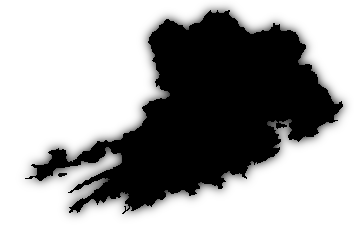
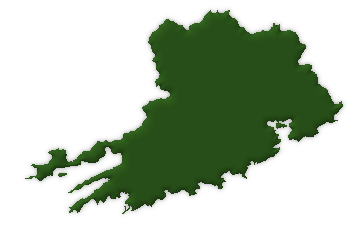
improving county graphics assets

diff --git a/src/data/coordinates.js b/src/data/coordinates.js
@@ -1,0 +1,234 @@
+export const coordinates = [
+    {
+        name : 'ireland',
+        top : 0,
+        left : 0,
+        width : 1426,
+        height : 1824
+    },
+    {
+        name : 'cork',
+        top : 1364,
+        left : 122,
+        width : 649,
+        height : 427,
+    },
+    {
+        name : 'kerry',
+        top : 1277,
+        left : 25,
+        width : 410,
+        height : 406,
+    },
+    {
+        name : 'limerick',
+        top : 1202,
+        left : 357,
+        width : 332,
+        height : 224,
+    },
+    {
+        name : 'waterford',
+        top : 1373,
+        left : 677,
+        width : 331,
+        height : 198,
+    },
+    {
+        name : 'clare',
+        top : 1019,
+        left : 202,
+        width : 440, 
+        height : 284,
+    },
+    {
+        name : 'tipperary',
+        top : 1019,
+        left : 589,
+        width : 307,
+        height : 441,
+    },
+    {
+        name : 'galway',
+        top : 778,
+        left : 107,
+        width : 628,
+        height : 340,
+    },
+    {
+        name : 'mayo',
+        top : 495,
+        left : 121,
+        width : 455,
+        height : 405,
+    },
+    {
+        name : 'roscommon',
+        top : 592,
+        left : 498,
+        width : 266,
+        height : 399,
+    },
+    {
+        name : 'sligo',
+        top : 208,
+        left : 217,
+        width : 145,
+        height : 141,
+    },
+    {
+        name : 'leitrim',
+        top : 436,
+        left : 612,
+        width : 231,
+        height : 313,
+    },
+    {
+        name : 'wexford',
+        top : 579,
+        left : 501,
+        width : 131,
+        height : 169,
+    },
+    {
+        name : 'kilkenny',
+        top : 560,
+        left : 411,
+        width : 118,
+        height : 158,
+    },
+    {
+        name : 'carlow',
+        top : 553,
+        left : 485,
+        width : 100,
+        height : 115,
+    },
+    {
+        name : 'wicklow',
+        top : 483,
+        left : 529,
+        width : 119,
+        height : 136,
+    },
+    {
+        name : 'dublin',
+        top : 393,
+        left : 562,
+        width : 78,
+        height : 114,
+    },
+    {
+        name : 'kildare',
+        top : 437,
+        left : 477,
+        width : 108,
+        height : 144,
+    }, 
+    {
+        name : 'meath',
+        top : 332,
+        left : 449,
+        width : 165,
+        height : 130,
+    },
+    {
+        name : 'laois',
+        top : 493,
+        left : 402,
+        width : 120,
+        height : 105,
+    },
+    {
+        name : 'offaly',
+        top : 444,
+        left : 355,
+        width : 161,
+        height : 141,
+    },
+    {
+        name : 'westmeath',
+        top : 359,
+        left : 370,
+        width : 147,
+        height : 121,
+    },
+    {
+        name : 'louth',
+        top : 284,
+        left : 537,
+        width : 90,
+        height : 106,
+    },
+    {
+        name : 'longford',
+        top : 328,
+        left : 360,
+        width : 100,
+        height : 103,
+    },
+    {
+        name : 'donegal',
+        top : 5,
+        left : 259,
+        width : 258,
+        height : 220,
+    },
+    {
+        name : 'tyrone',
+        top : 103,
+        left : 376,
+        width : 196,
+        height : 150,
+    },
+    {
+        name : 'derry',
+        top : 44,
+        left : 442,
+        width : 137,
+        height : 140,
+    },
+    {
+        name : 'antrim',
+        top : 19,
+        left : 546,
+        width : 130,
+        height : 199,
+    },
+    {
+        name : 'down',
+        top : 160,
+        left : 572,
+        width : 140,
+        height : 159,
+    },
+    {
+        name : 'armagh',
+        top : 197,
+        left : 512,
+        width : 90,
+        height : 121,
+    },
+    {
+        name : 'fermanagh',
+        top : 178,
+        left : 345,
+        width : 146,
+        height : 123,
+    },
+    {
+        name : 'monaghan',
+        top : 218,
+        left : 453,
+        width : 118,
+        height : 130,
+    },
+    {
+        name : 'cavan',
+        top : 246,
+        left : 359,
+        width : 183,
+        height : 132,
+    }
+
+];

diff --git a/src/Megamap.js b/src/Megamap.js
@@ -1,6 +1,6 @@
 import React, { useState, useEffect, useRef } from 'react';
 import { county_red_codes } from './data/county_red_codes';
-import { county_data } from './data/county_data';
+import { coordinates } from './data/coordinates';
 import CountySegment from './CountySegment.js';
 import CountyTile from './CountyTile.js';
 import CountyTile2 from './CountyTile2.js';
@@ -20,6 +20,7 @@ function Megamap(props) {
     const countyLabelRef = useRef(null);
     const audioRef = useRef(null);
     const [shouldRerender, setShouldRerender] = useState(true);
+    const county_data = coordinates;
 
     useEffect(() => {
         function handleResize() {
@@ -67,7 +68,7 @@ function Megamap(props) {
             + expandedModeRef.current + ')');
         if (expandedModeRef.current == false) {
             audioRef.current.currentTime = 0;
-            audioRef.current.play();
+            //audioRef.current.play();
             if (currentCounty !== undefined) {
                 setSelectedCounty(currentCounty);
                 expandedModeRef.current = true;
@@ -128,7 +129,7 @@ function Megamap(props) {
                 <React.Fragment key={county.name + '_key'}>
                     <CountyTile2
                         name={county.name}
-                        source={county.name + '_mono'}
+                        source={county.name}
                         top={county.top * sizeRatio}
                         left={county.left * sizeRatio}
                         mapLeft={mapRect.left}
@@ -143,7 +144,10 @@ function Megamap(props) {
                 </React.Fragment>
             );
         } else {
-            let expandedWidth = mapRect.width * 0.8;
+            let expandedWidth = mapRect.width * 1.0;
+            if (expandedWidth > county.width * sizeRatio * 4) {
+                expandedWidth = county.width * sizeRatio * 4;
+            }
             let ratio = expandedWidth / (county.width * sizeRatio);
             let expandedHeight = county.height * sizeRatio * ratio;
             let expandedLeft = (mapRect.width / 2) - (expandedWidth / 2);
@@ -152,7 +156,7 @@ function Megamap(props) {
                 <React.Fragment key={county.name + '_key'}>
                     <CountyTile2
                         name={county.name}
-                        source={county.name + '_mono'}
+                        source={county.name}
                         top={expandedTop}
                         left={expandedLeft}
                         mapLeft={mapRect.left}
@@ -174,7 +178,7 @@ function Megamap(props) {
     return (
         <div className='megamap' ref={componentReference} onMouseMove={onMouseMove}>
             <div>
-                <img src='/images/ireland_maps/counties_monochrome_2.png'
+                <img src='/images/ireland_maps/counties_monochrome.png'
                     alt='count_mono.png'
                     style={{
                         position: 'absolute',
@@ -182,7 +186,7 @@ function Megamap(props) {
                         top: mapRect.top,
                         width: mapRect.width,
                         height: mapRect.height,
-                        backgroundColor: '#444444cc',
+                        // backgroundColor: '#444444cc',
                         opacity: 0.0,
                     }} />
             </div>

diff --git a/src/data/constants.js b/src/data/constants.js
@@ -1,8 +1,11 @@
 export const OPACITY_INCREMENT = 0.035;
 export const OPACITY_DECREMENT = 0.1;
-export const IRELAND_MAP_BASE_WIDTH = 728;
-export const IRELAND_MAP_BASE_HEIGHT = 906;
-export const IRELAND_MAP_BASE_RATIO = 0.8035;
+// export const IRELAND_MAP_BASE_WIDTH = 728;
+// export const IRELAND_MAP_BASE_HEIGHT = 906; old map
+export const IRELAND_MAP_BASE_WIDTH = 1426;
+export const IRELAND_MAP_BASE_HEIGHT = 1824;
+// export const IRELAND_MAP_BASE_RATIO = 0.8035; old map
+export const IRELAND_MAP_BASE_RATIO = 0.7818; // new map
 
 export const COUNTY_NAMES = new Map([
     ['Munster', ['Cork','Kerry','Limerick','Waterford','Tipperary','Clare']],

diff --git a/src/CountyTile2.js b/src/CountyTile2.js
@@ -8,14 +8,11 @@ const CountyTile = (props) => {
     const originalWidth = useRef(0);
     const originalHeight = useRef(0);
     let source = '/images/counties_mono/' + props.source + '.png';
-    if (props.name == 'cork') {
-       source = '/images/counties_mono/cork_green_gradient_oil.png';
-    }
-    let opac = 0.4;
+    let opac = 1.0;
     if (props.highlighted) {
         opac = 1.0;
     } else if (props.backgrounded) {
-        opac = 0.2;
+        opac = 0.1;
     }
 
     const onImageLoad = () => {

diff --git a/src/CountyTile.css b/src/CountyTile.css
@@ -1,6 +1,6 @@
 .county_image {
     transition-property: opacity, left, top, width, height;
-    transition-duration: 0.2s;
+    transition-duration: 0.4s;
     transition-timing-function: ease-in-out;
 }
 
